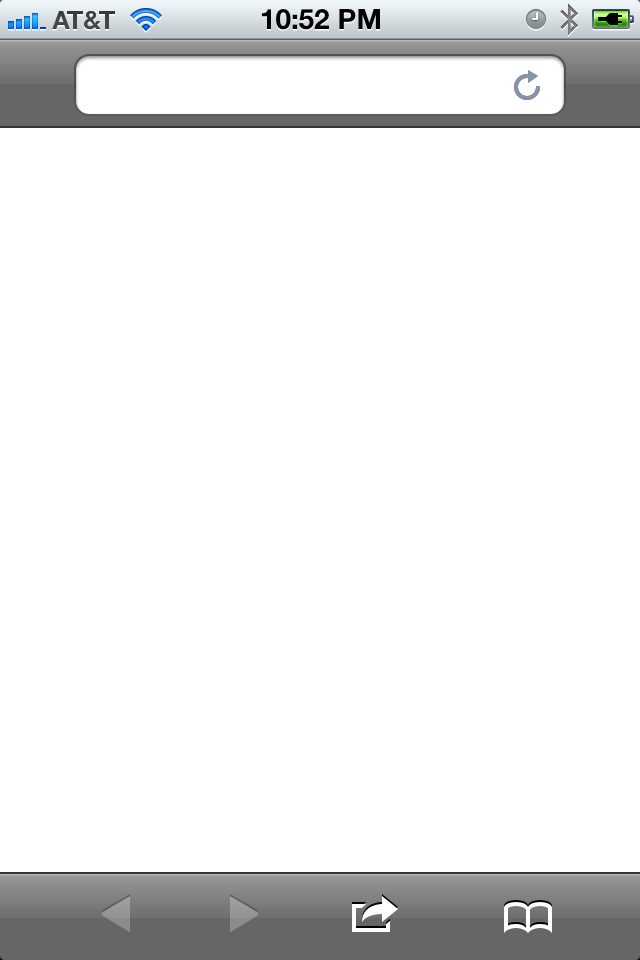
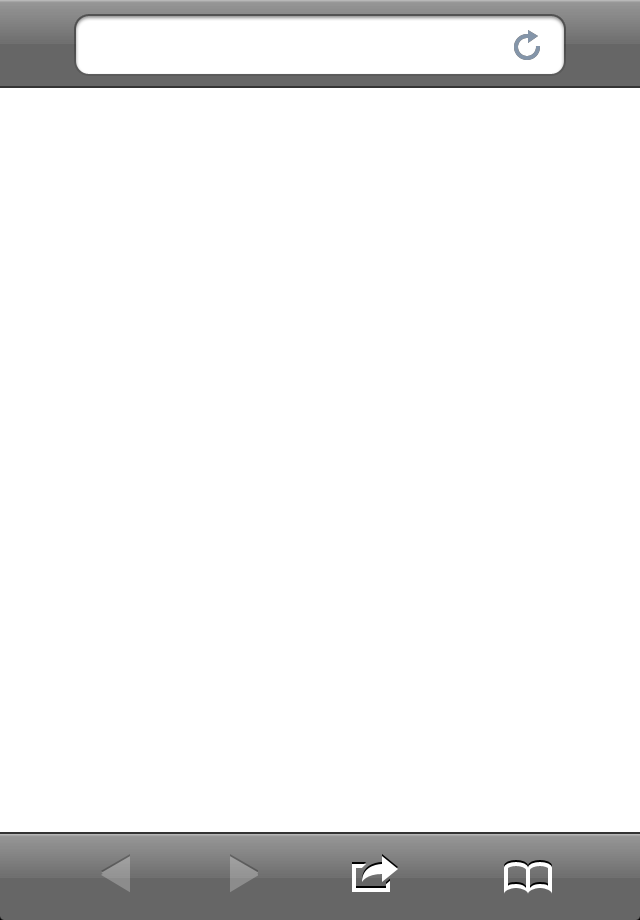
changed ui fonts
Changed ui fonts

Changed region(s): [[0.0, 0.0, 1.0, 0.1522], [0.0, 0.8826, 1.0, 0.9739]]

diff --git a/CIALBrowser/CIALBrowserViewController.m b/CIALBrowser/CIALBrowserViewController.m
@@ -32,6 +32,8 @@
 @synthesize modal = _modal;
 @synthesize enabledSafari = _enabledSafari;
 //OpenDyslexic code
+
+
 NSMutableString *iscVopendyslexic = @"var css = document.createElement('link');"  
    "css.setAttribute('type','text/css');"
    "css.setAttribute('rel','stylesheet');"
@@ -74,6 +76,7 @@ NSMutableString *iscVopendyslexic = @"var css = document.createElement('link');"
         toolBar.barStyle = UIBarStyleDefault;
         [toolBar sizeToFit];
         toolBar.autoresizesSubviews = NO;
+       
         toolBar.frame = CGRectMake(0,
                                    0,
                                    self.view.frame.size.width, 
@@ -197,6 +200,8 @@ NSMutableString *iscVopendyslexic = @"var css = document.createElement('link');"
         }
         
         navigationBar = [[UINavigationBar alloc] initWithFrame:CGRectMake(0, 0, self.view.frame.size.width, 44)];
+       navigationBar.barStyle = UIBarStyleBlack;
+       navigationBar.translucent = YES;
         navigationBar.autoresizingMask = UIViewAutoresizingFlexibleWidth;
         [navigationBar setItems:[NSArray arrayWithObject:navigationItem]];
         [self.view addSubview:navigationBar];
@@ -204,7 +209,8 @@ NSMutableString *iscVopendyslexic = @"var css = document.createElement('link');"
         
         // Toolbar
         toolBar = [[[UIToolbar alloc] initWithFrame:CGRectZero] autorelease];
-        toolBar.barStyle = UIBarStyleDefault;
+        toolBar.barStyle = UIBarStyleBlack;
+       toolBar.translucent = YES;
         [toolBar sizeToFit];
         toolBar.autoresizesSubviews = NO;
         toolBar.frame = CGRectMake(0,
@@ -246,7 +252,8 @@ NSMutableString *iscVopendyslexic = @"var css = document.createElement('link');"
         [self.view addSubview:toolBar];
         
         // webView
-        webView = [[UIWebView alloc] initWithFrame:CGRectMake(0, navigationBar.frame.size.height , self.view.frame.size.width, self.view.frame.size.height - navigationBar.frame.size.height - toolBar.frame.size.height)];
+      
+       webView = [[UIWebView alloc] initWithFrame:CGRectMake(0, navigationBar.frame.size.height , self.view.frame.size.width, self.view.frame.size.height - navigationBar.frame.size.height - toolBar.frame.size.height)];
         webView.scalesPageToFit = YES;
         webView.contentMode = UIViewContentModeScaleToFill;
         webView.multipleTouchEnabled = YES;
@@ -822,7 +829,30 @@ NSMutableString *iscVopendyslexic = @"var css = document.createElement('link');"
                 [_longPressActionSheet showInView:self.view];
             }
             [_longPressActionSheet release];
-        }        
+           
+        }else{
+           if (UI_USER_INTERFACE_IDIOM() == UIUserInterfaceIdiomPad) {
+              if (toolBar.hidden == YES){
+                 toolBar.hidden = NO;
+                 webView.frame = CGRectMake(0, toolBar.frame.size.height , self.view.frame.size.width, self.view.frame.size.height - toolBar.frame.size.height);
+              }else {
+                 toolBar.hidden = YES;
+                 webView.frame = self.view.bounds;
+
+              }
+           }else{
+              if(navigationBar.hidden == YES){
+                 navigationBar.hidden = NO;
+                 toolBar.hidden = NO;
+                 webView.frame = CGRectMake(0, navigationBar.frame.size.height , self.view.frame.size.width, self.view.frame.size.height - navigationBar.frame.size.height - toolBar.frame.size.height);
+              }else {
+                 navigationBar.hidden = YES;
+                 toolBar.hidden = YES;
+                 webView.frame = self.view.bounds;
+              }
+           }
+           
+        }
     }
 }
 

diff --git a/CIALBrowser/ViewBookmarkViewController.m b/CIALBrowser/ViewBookmarkViewController.m
@@ -185,6 +185,7 @@
     cell.accessoryType = UITableViewCellAccessoryNone;
     cell.editingAccessoryType = UITableViewCellAccessoryDisclosureIndicator;
     [cell.textLabel setText:bookmark.name];
+   cell.textLabel.font = [UIFont fontWithName:@"OpenDyslexic" size:17.0];
     cell.imageView.image = [UIImage imageNamed:@"CIALBrowser.bundle/images/Bookmark.png"];
     cell.imageView.highlightedImage = [UIImage imageNamed:@"CIALBrowser.bundle/images/BookmarkSelected.png"];
     

diff --git a/CIALBrowser/AddBookmarkViewController.m b/CIALBrowser/AddBookmarkViewController.m
@@ -154,6 +154,7 @@
                         _nameTextField.delegate = self;
                         _nameTextField.clearButtonMode = UITextFieldViewModeWhileEditing;
                         [_nameTextField setEnabled: YES];
+                       _nameTextField.font = [UIFont fontWithName:@"OpenDyslexic" size:17.0];
                         _nameTextField.text = _bookmark.name;
                         
                         [cell addSubview:_nameTextField];

diff --git a/CIALBrowser/EditBookmarkViewController.m b/CIALBrowser/EditBookmarkViewController.m
@@ -129,6 +129,7 @@
                         _nameTextField.textAlignment = UITextAlignmentLeft;
                         _nameTextField.delegate = self;
                         _nameTextField.clearButtonMode = UITextFieldViewModeWhileEditing;
+                       _nameTextField.font = [UIFont fontWithName:@"OpenDyslexic" size:17.0];
                         
                         [_nameTextField setEnabled: YES];
                         
